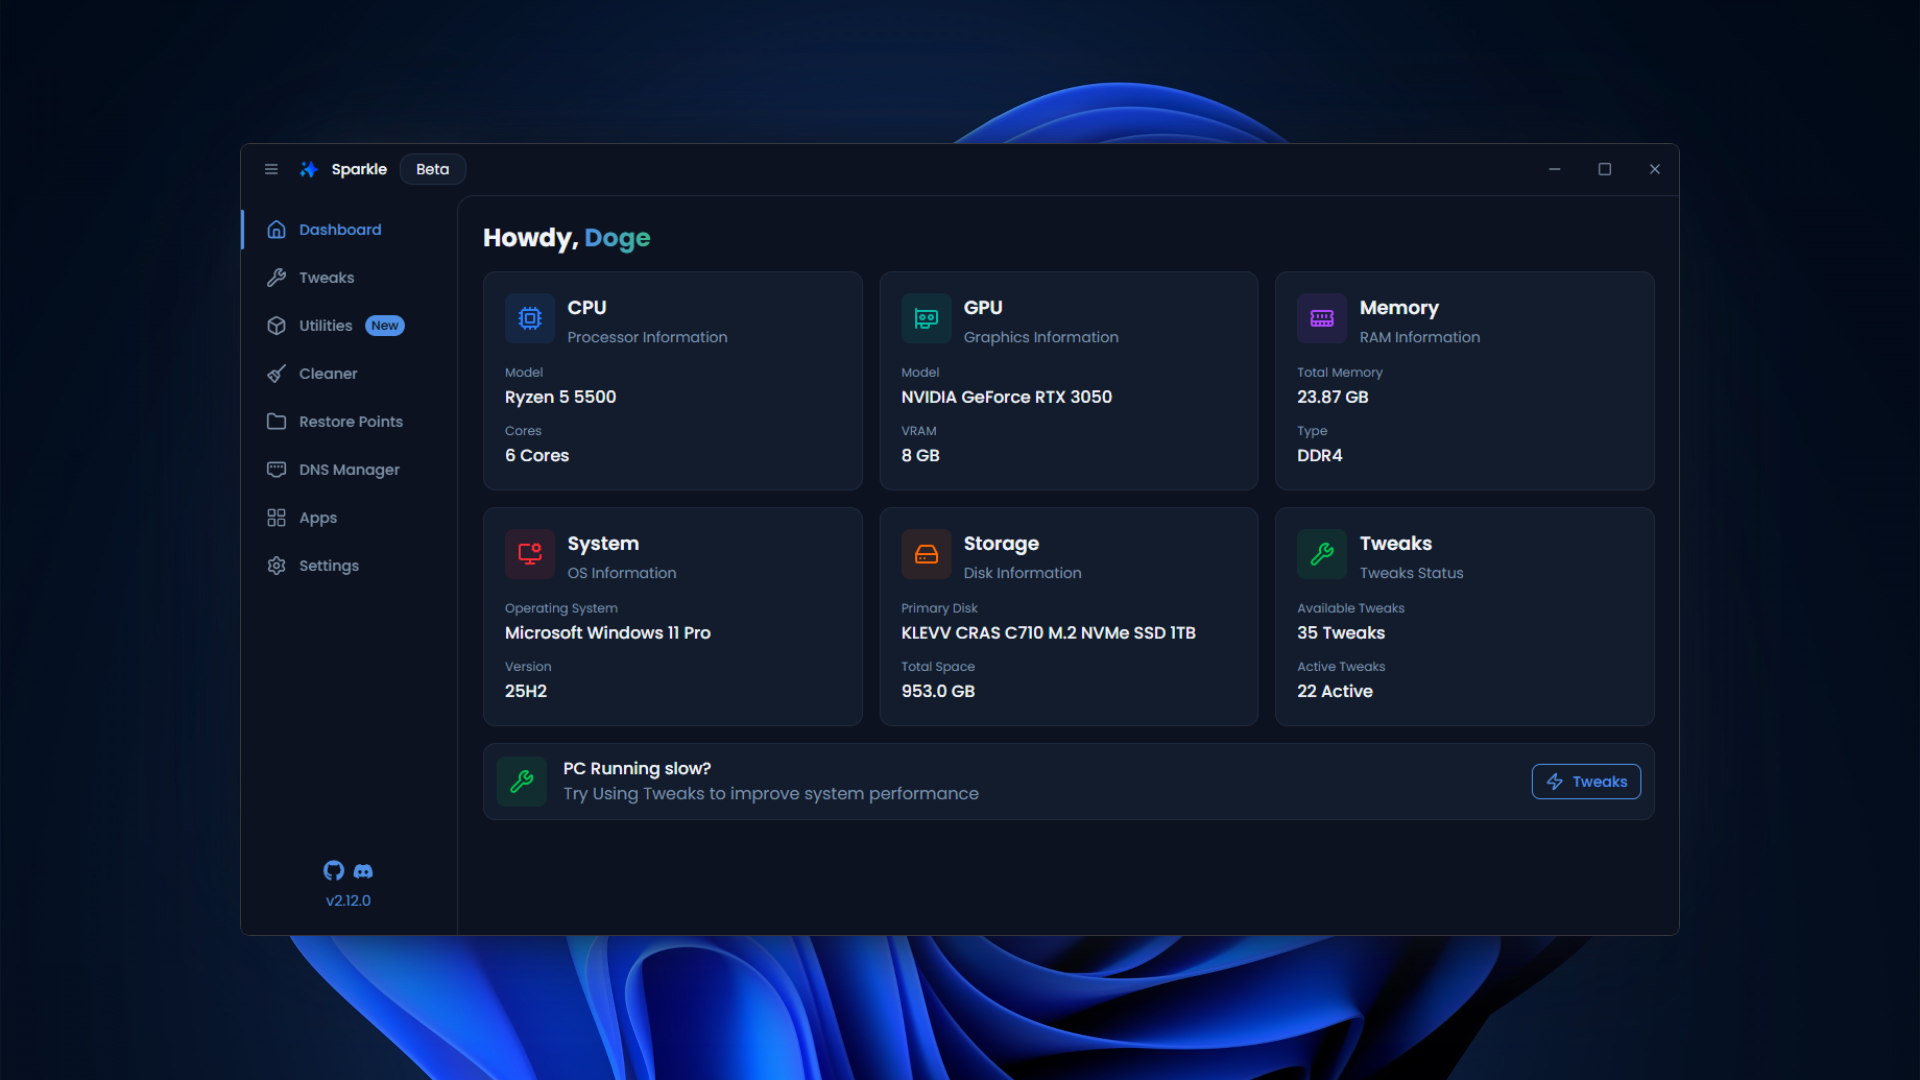
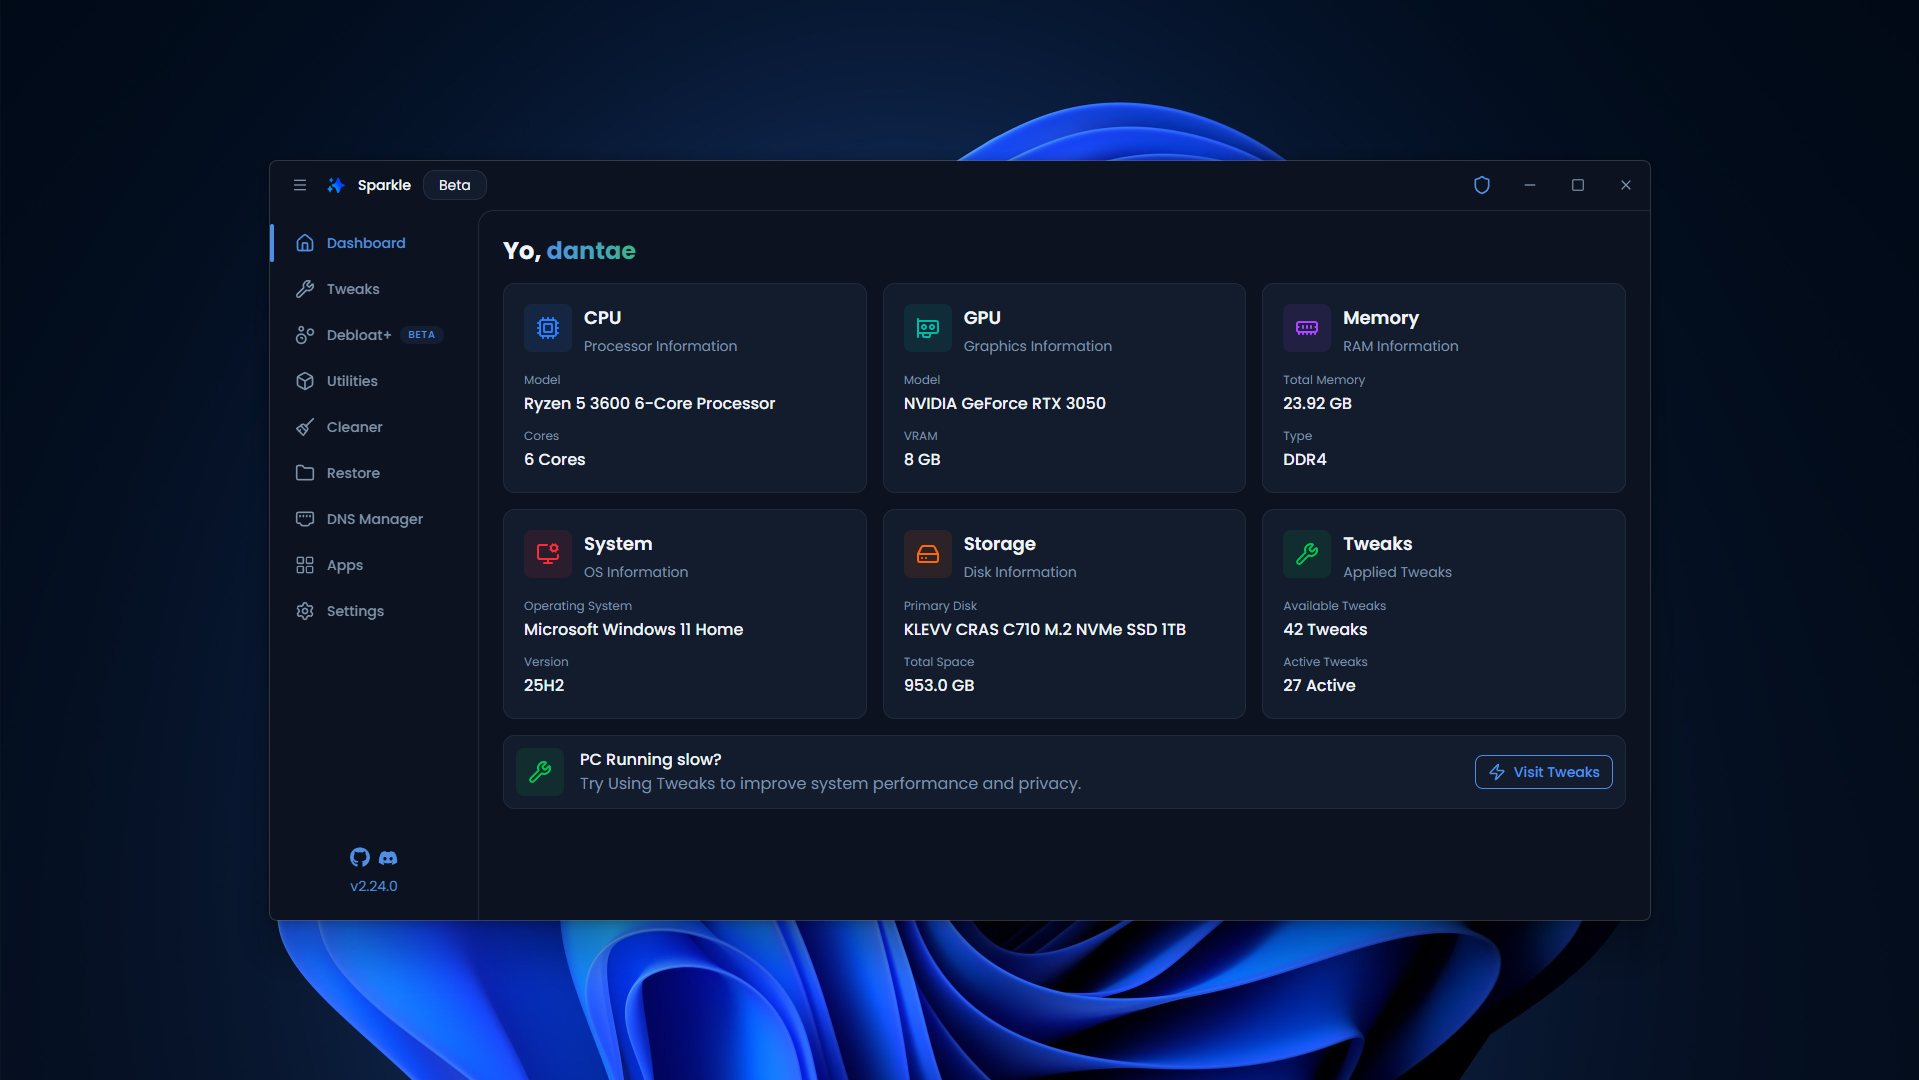
feat: add features section

diff --git a/app/page.tsx b/app/page.tsx
@@ -90,58 +90,58 @@ const faqs = [
   },
 ];
 
-const features = [
-  {
-    title: "Debloat Windows",
-    description:
-      "Removes unnecessary Windows features and apps to free up resources and improve performance.",
-    icon: Star,
-    iconColor: "text-teal-500",
-  },
-  {
-    title: "Apply Tweaks",
-    description:
-      "Apply various tweaks to debloat windows, disable game bar, enable detailed bsod And more ",
-    icon: Wrench,
-    iconColor: "text-pink-500",
-  },
-  {
-    title: "Clean Temporary Files",
-    description:
-      "Remove temporary files, caches, and logs to free up valuable disk space.",
-    icon: Trash2,
-    iconColor: "text-yellow-500",
-  },
-  {
-    title: "Safe & Reversible",
-    description:
-      "All changes can be easily undone with system restore points or by reverting settings.",
-    icon: Shield,
-    iconColor: "text-red-500",
-  },
-  {
-    title: "App Installer",
-    description:
-      "Quickly install your favorite applications using winget or chocolatey without leaving Sparkle.",
-    icon: LayoutGrid,
-    iconColor: "text-blue-500",
-  },
-  {
-    title: "System Utilities",
-    description:
-      "Run essential system tools like SFC, Check Disk, and DISM from a simple, intuitive interface.",
-    icon: Box,
-    iconColor: "text-green-500",
-  },
-  // {
-  //   title: "Network Optimizer",
-  //   description:
-  //     "Optimize your network settings and change DNS for improved speed and security.",
-  //   icon: Network,
-  //   iconColor: "text-purple-500",
-  //   new: false,
-  // },
-];
+// const features = [
+//   {
+//     title: "Debloat Windows",
+//     description:
+//       "Removes unnecessary Windows features and apps to free up resources and improve performance.",
+//     icon: Star,
+//     iconColor: "text-teal-500",
+//   },
+//   {
+//     title: "Apply Tweaks",
+//     description:
+//       "Apply various tweaks to debloat windows, disable game bar, enable detailed bsod And more ",
+//     icon: Wrench,
+//     iconColor: "text-pink-500",
+//   },
+//   {
+//     title: "Clean Temporary Files",
+//     description:
+//       "Remove temporary files, caches, and logs to free up valuable disk space.",
+//     icon: Trash2,
+//     iconColor: "text-yellow-500",
+//   },
+//   {
+//     title: "Safe & Reversible",
+//     description:
+//       "All changes can be easily undone with system restore points or by reverting settings.",
+//     icon: Shield,
+//     iconColor: "text-red-500",
+//   },
+//   {
+//     title: "App Installer",
+//     description:
+//       "Quickly install your favorite applications using winget or chocolatey without leaving Sparkle.",
+//     icon: LayoutGrid,
+//     iconColor: "text-blue-500",
+//   },
+//   {
+//     title: "System Utilities",
+//     description:
+//       "Run essential system tools like SFC, Check Disk, and DISM from a simple, intuitive interface.",
+//     icon: Box,
+//     iconColor: "text-green-500",
+//   },
+//   // {
+//   //   title: "Network Optimizer",
+//   //   description:
+//   //     "Optimize your network settings and change DNS for improved speed and security.",
+//   //   icon: Network,
+//   //   iconColor: "text-purple-500",
+//   //   new: false,
+//   // },
+// ];
 
 // Animation variants
 const fadeInUp = {
@@ -472,16 +472,17 @@ export default function Home() {
           >
             <CodeTabs tabs={installMethods} className="w-sm gap-0 mt-4 z-40!" />
           </motion.div>
-          <motion.p   
+          <motion.p
             initial={{ opacity: 0, y: 10 }}
             animate={{ opacity: 1, y: 0 }}
-            transition={{ duration: 0.3, delay: 0.3 }}>
-          <Link
-            href="/downloads"
-            className="text-muted-foreground text-sm mt-4 hover:text-primary transition-colors underline"
+            transition={{ duration: 0.3, delay: 0.3 }}
           >
-            View all downloads
-          </Link>
+            <Link
+              href="/downloads"
+              className="text-muted-foreground text-sm mt-4 hover:text-primary transition-colors underline"
+            >
+              View all downloads
+            </Link>
           </motion.p>
 
           <div className="relative w-full max-w-5xl flex flex-col items-center justify-center">
@@ -503,7 +504,7 @@ export default function Home() {
           </div>
 
           <div className="w-full py-12">
-            <div className="mx-auto max-w-7xl px-4 sm:px-6 lg:px-8">
+            {/* <div className="mx-auto max-w-7xl px-4 sm:px-6 lg:px-8">
               <motion.div
                 initial="hidden"
                 whileInView="visible"
@@ -558,7 +559,7 @@ export default function Home() {
               <p className="text-center text-sm font-medium mt-3 mb-3 text-muted-foreground">
                 With more features in the app{" "}
               </p>
-            </div>
+            </div> */}
 
             <ins
               className="adsbygoogle"
@@ -574,6 +575,110 @@ export default function Home() {
                 __html: "(adsbygoogle = window.adsbygoogle || []).push({});",
               }}
             />
+
+            <h1 className="font-bold text-center text-3xl">Features</h1>
+            <section className="mx-auto flex max-w-7xl flex-col items-center gap-8 px-4 py-12 sm:px-6 md:flex-row lg:px-8">
+              <div className="w-full md:w-1/2">
+                <h1 className="text-3xl font-bold tracking-tight text-foreground sm:text-4xl">
+                  Debloat Windows
+                </h1>
+                <p className="mt-4 text-base text-muted-foreground sm:text-lg">
+                  Using Sparkle's Tweaks page you can debloat windows, remove
+                  telemetry and more
+                </p>
+              </div>
+              <img
+                src="/tweaks_page.png"
+                alt="Tweaks Page"
+                className="w-full rounded-lg object-cover shadow-lg md:w-1/2"
+              />
+            </section>
+
+            <section className="mx-auto flex max-w-7xl flex-col items-center gap-8 px-4 py-12 sm:px-6 md:flex-row lg:px-8">
+              <img
+                src="/utilities_page.png"
+                alt="Utilities Page"
+                className="w-full rounded-lg object-cover shadow-lg md:w-1/2"
+              />
+              <div className="w-full md:w-1/2">
+                <h1 className="text-3xl font-bold tracking-tight text-foreground sm:text-4xl">
+                  Useful Utilities
+                </h1>
+                <p className="mt-4 text-base text-muted-foreground sm:text-lg">
+                  Using Sparkle's Utilities page you can run system tools like
+                  SFC, Check Disk, and DISM from a simple interface.
+                </p>
+              </div>
+            </section>
+
+            <section className="mx-auto flex max-w-7xl flex-col items-center gap-8 px-4 py-12 sm:px-6 md:flex-row lg:px-8">
+              <div className="w-full md:w-1/2">
+                <h1 className="text-3xl font-bold tracking-tight text-foreground sm:text-4xl">
+                  Clean Temporary Files
+                </h1>
+                <p className="mt-4 text-base text-muted-foreground sm:text-lg">
+                  Using Sparkle's Cleaner page you can clean up temporary files,
+                  Windows update cache, and logs to free up disk space.
+                </p>
+              </div>
+              <img
+                src="/clean_page.png"
+                alt="Cleaner Page"
+                className="w-full rounded-lg object-cover shadow-lg md:w-1/2"
+              />
+            </section>
+
+            <section className="mx-auto flex max-w-7xl flex-col items-center gap-8 px-4 py-12 sm:px-6 md:flex-row lg:px-8">
+              <img
+                src="/restore_page.png"
+                alt="Restore Page"
+                className="w-full rounded-lg object-cover shadow-lg md:w-1/2"
+              />
+              <div className="w-full md:w-1/2">
+                <h1 className="text-3xl font-bold tracking-tight text-foreground sm:text-4xl">
+                  Restore Your System
+                </h1>
+                <p className="mt-4 text-base text-muted-foreground sm:text-lg">
+                  Using Sparkle's Restore page you can restore your system to a
+                  previous state, by either using a system restore point or by
+                  reverting applied Tweaks.
+                </p>
+              </div>
+            </section>
+
+            <section className="mx-auto flex max-w-7xl flex-col items-center gap-8 px-4 py-12 sm:px-6 md:flex-row lg:px-8">
+              <div className="w-full md:w-1/2">
+                <h1 className="text-3xl font-bold tracking-tight text-foreground sm:text-4xl">
+                  DNS Changer
+                </h1>
+                <p className="mt-4 text-base text-muted-foreground sm:text-lg">
+                  Using Sparkle's DNS Changer page you can change your system's
+                  DNS settings to improve browsing speed and security.
+                </p>
+              </div>
+              <img
+                src="/dns_page.png"
+                alt="DNS Page"
+                className="w-full rounded-lg object-cover shadow-lg md:w-1/2"
+              />
+            </section>
+
+            <section className="mx-auto flex max-w-7xl flex-col items-center gap-8 px-4 py-12 sm:px-6 md:flex-row lg:px-8">
+              <img
+                src="/apps_page.png"
+                alt="Apps Page"
+                className="w-full rounded-lg object-cover shadow-lg md:w-1/2"
+              />
+              <div className="w-full md:w-1/2">
+                <h1 className="text-3xl font-bold tracking-tight text-foreground sm:text-4xl">
+                  Apps Installer
+                </h1>
+                <p className="mt-4 text-base text-muted-foreground sm:text-lg">
+                  Using Sparkle's Apps Installer page you can easily install
+                  apps using either Winget or Chocolatey.
+                </p>
+              </div>
+            </section>
 
             <div className="mx-auto max-w-7xl px-4 sm:px-6 lg:px-8">
               <motion.div
